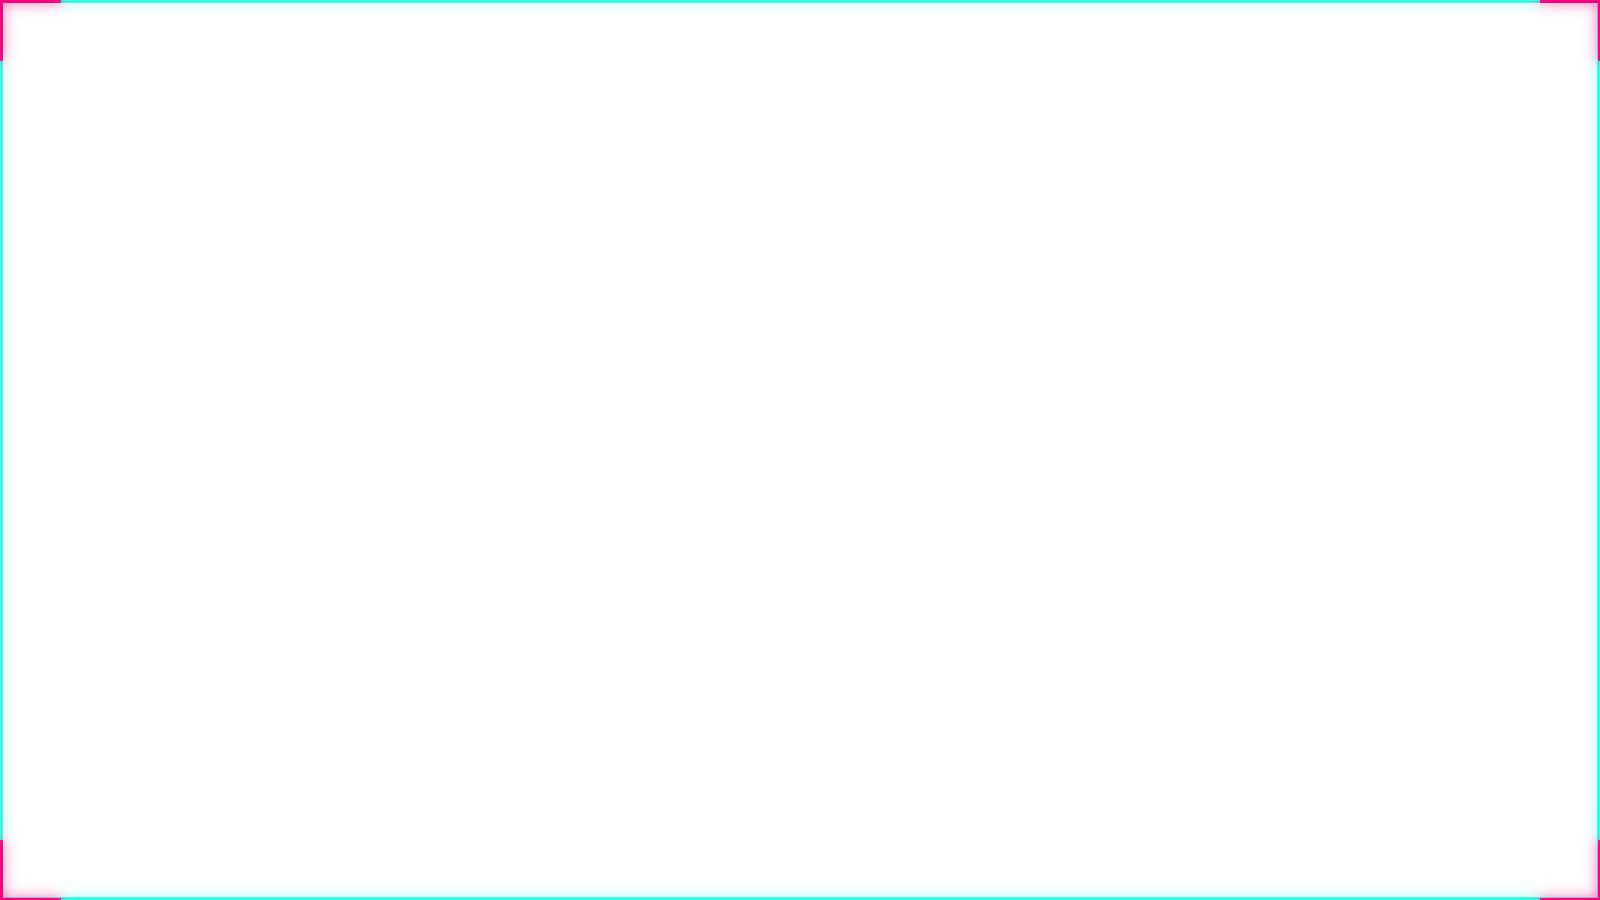
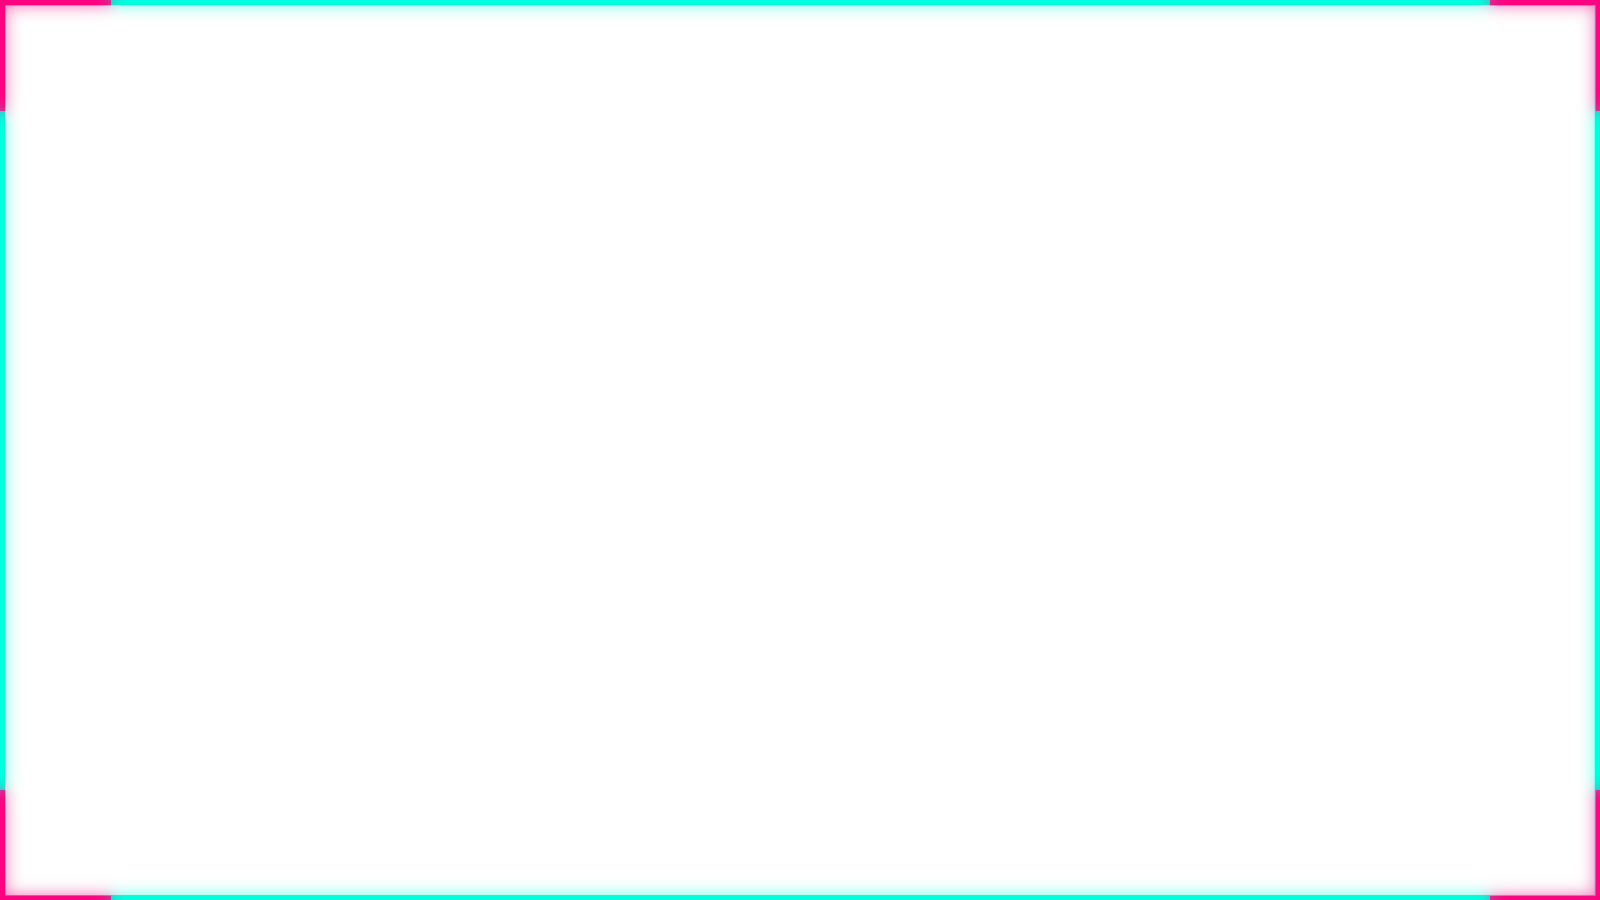
feat(plymouth): thicker neon frame and a cyber pattern in the bars
The caption over the splash is gone. The border is now a 5px neon line with
a soft glow and 9px pink corner brackets, and the empty space around the
picture carries a tiled cyber pattern: a diagonal circuit line with a node
and a pink dash.

The script places the tiles itself, so the pattern follows the screen size:
the tiles that would land on the animation are skipped, the top and bottom
bars are filled per column and the side bars run the full height of the
screen.

Changed region(s): [[0.0, 0.0622, 1.0, 1.0], [0.0, 0.0, 1.0, 0.0311], [0.0, 0.0622, 0.0312, 0.9333]]

diff --git a/CHANGELOG.md b/CHANGELOG.md
@@ -38,9 +38,10 @@ Conventional Commits.
 - **The boot splash is centred and decorated.** The 1600x900 picture sits in
   the middle of the screen, the bars around it are filled with a dark violet
   gradient instead of flat black, a neon border with pink corner brackets
-  marks the edge of the picture, and the "VIRTUAL◈PARADISE" caption sits in
-  the bar above it. The caption hides itself on a screen too small to have a
-  bar, so it never lands on the animation.
+  marks the edge of the picture, and a tiled cyber pattern - a diagonal
+  circuit line with a node and a pink dash - runs through the four bars.
+  The tiles that would land on the animation are skipped, so the pattern
+  always stays in the empty space, and the layout follows the screen size.
 - **The compositor can read the Hyprland config the installer writes.** A
   `mktemp` file is created with mode 600 and `mv` keeps that mode, so moving
   a freshly built `hyprland.lua` into place turned it into `-rw-------`. In a

diff --git a/plymouth/README.md b/plymouth/README.md
@@ -25,4 +25,4 @@ once Plymouth stretches it over the screen (Plymouth converts palette PNGs
 through `png_set_palette_to_rgb`) and about a third of the image data. The
 picture is centred on the screen; the bars around it are filled with a dark
 violet gradient, `frame.png` draws a neon border with corner brackets around
-the picture, and `caption.png` sits in the bar above it.
+the picture, and `tile.png` is tiled through the bars as a cyber pattern.
